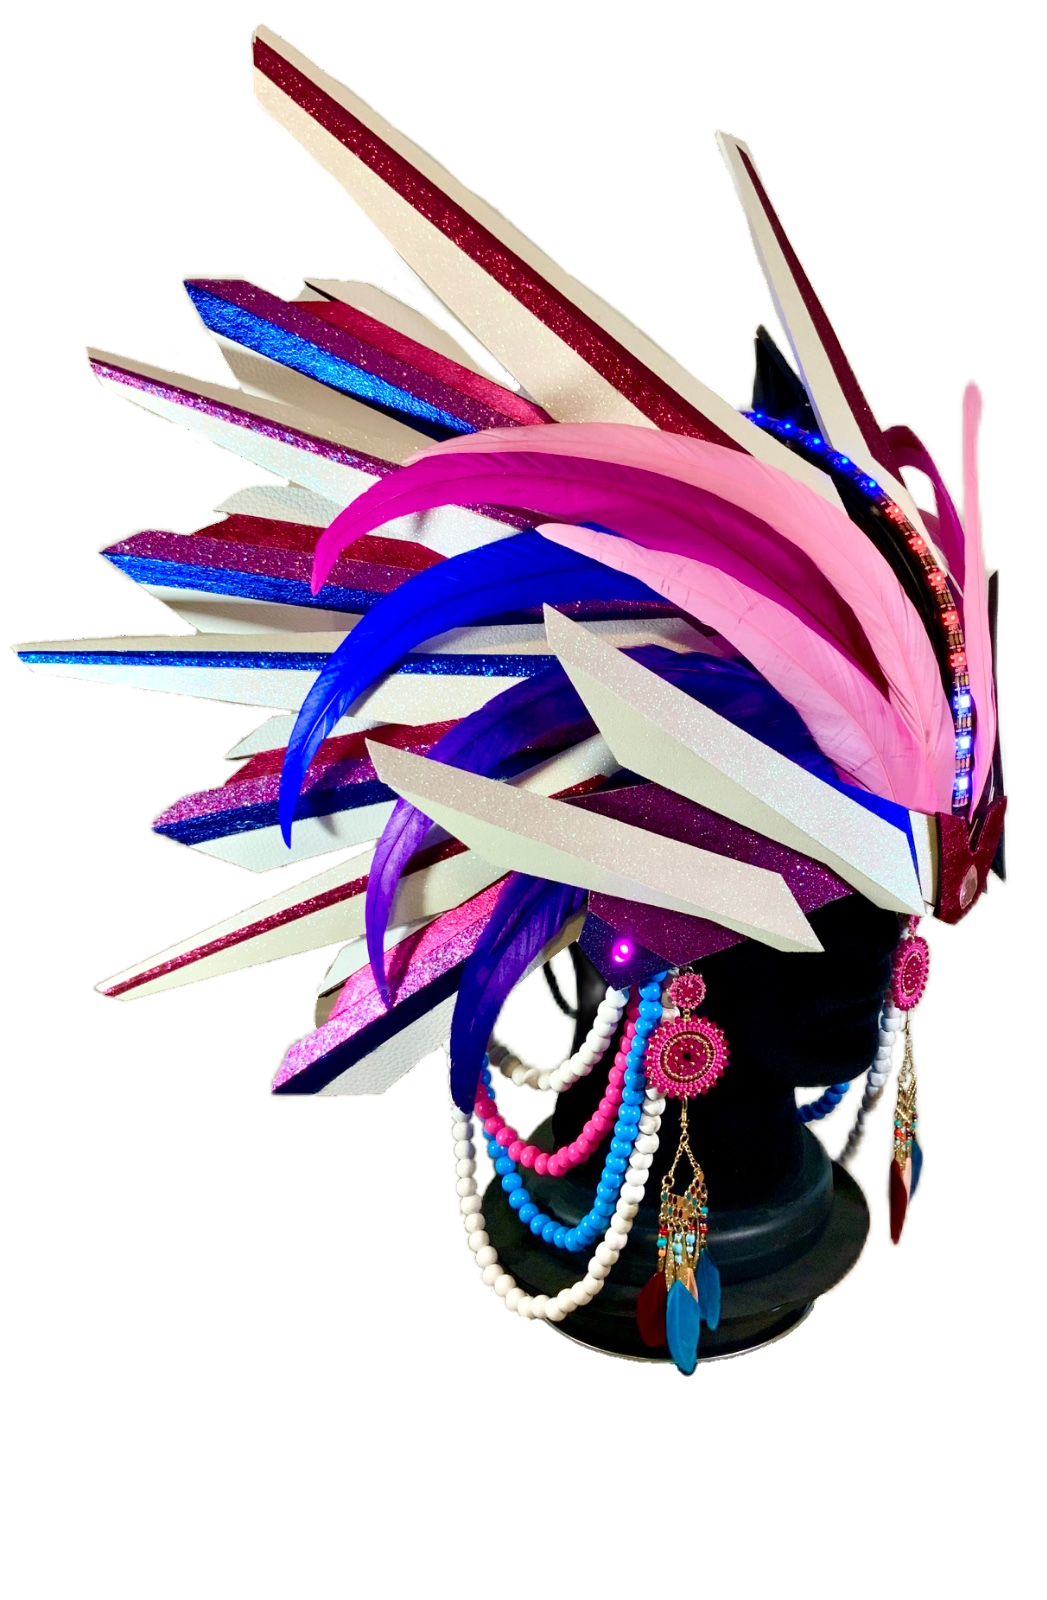
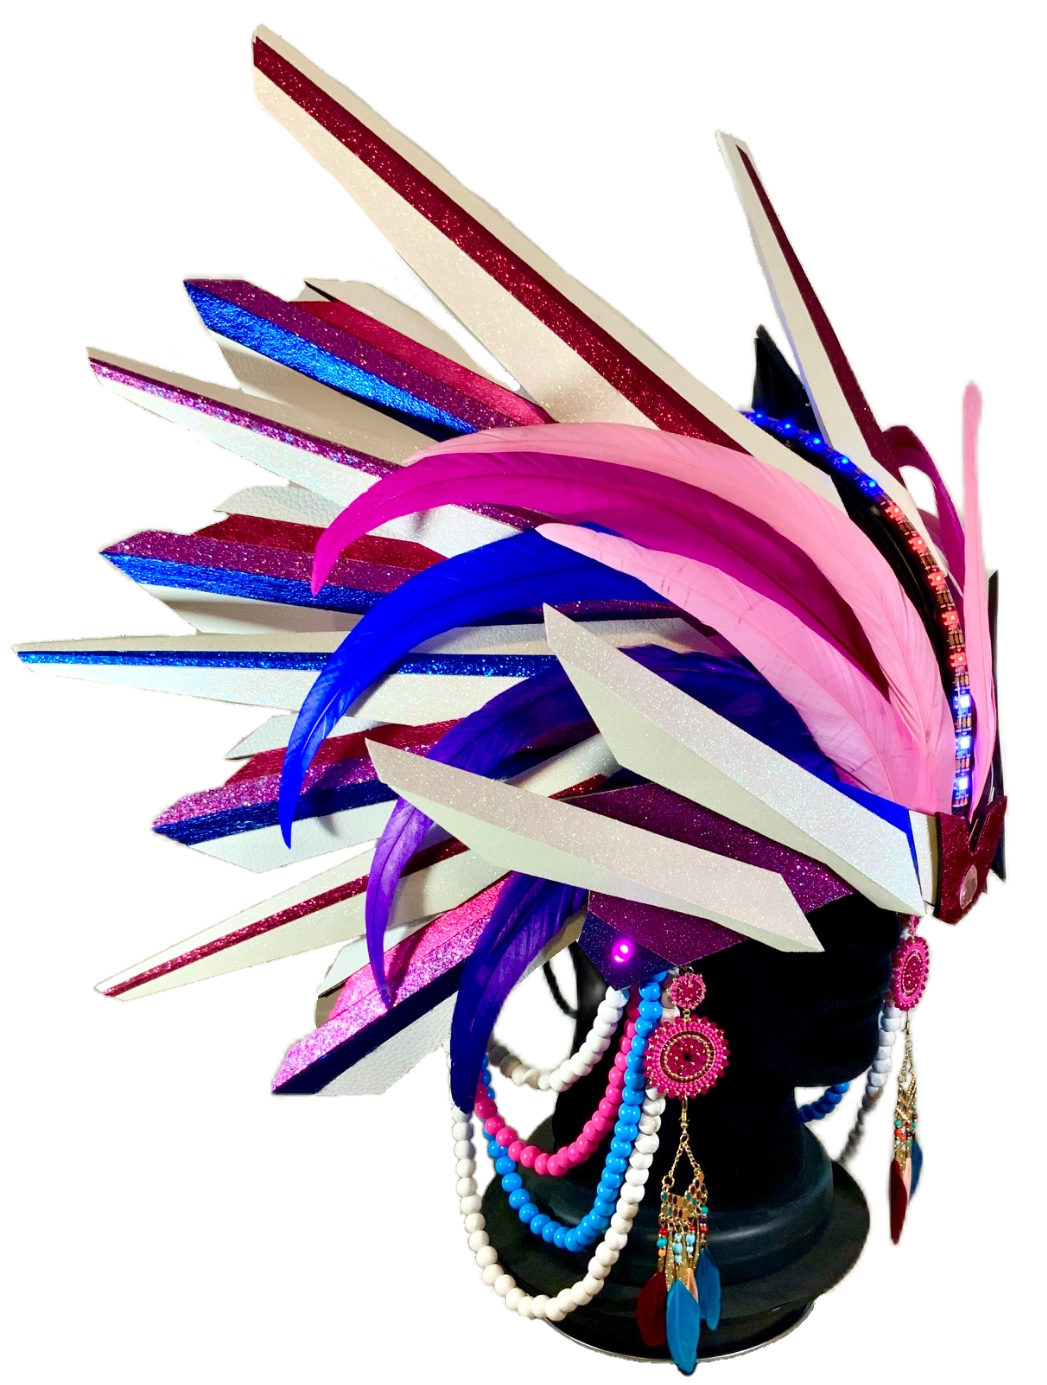
save

diff --git a/client/src/components/gallery/GalleryPageMainContainer.jsx b/client/src/components/gallery/GalleryPageMainContainer.jsx
@@ -4,58 +4,66 @@ import { headdressGalleryGroupsArray } from '../../utils/data/GalleryData';
 
 function GalleryPageMainContainer() {
   return (
-    <main role='main' className='grid w-full gap-y-24 lg:gap-y-44 px-6 md:px-12 py-8'>
-      {headdressGalleryGroupsArray.map(({ title, description, images }, index) => {
-        const [mainImage, ...restImages] = images;
+    <main
+      role='main'
+      className='grid w-full gap-y-24 lg:gap-y-44 px-6 md:px-12 py-8'
+    >
+      {headdressGalleryGroupsArray.map(
+        ({ title, description, images }, index) => {
+          const [mainImage, ...restImages] = images;
 
-        return (
-          <section key={index} className='grid gap-y-8 container mx-auto'>
-            {/* Title + Hero Section */}
-            <div className='grid md:grid-cols-2 gap-6 items-center'>
-              {/* Main Image */}
-              <div className='max-w-[25vw] w-full mx-auto'>
-                <img
-                  src={mainImage.src}
-                  alt={mainImage.name}
-                  className='w-full h-auto object-cover rounded-lg shadow-lg'
-                />
+          return (
+            <section key={index} className='grid gap-y-8 container mx-auto'>
+              {/* Title + Hero Section */}
+              <div className='grid md:grid-cols-reg gap-y-6 gap-x-12 items-center'>
+                {/* Main Image */}
+                <div className='lg:max-w-[25vw] w-full mx-auto'>
+                  <img
+                    src={mainImage.src}
+                    alt={mainImage.name}
+                    className='w-full h-auto object-cover lg:max-h-[60vh]'
+                  />
+                </div>
+
+                {/* Text Content */}
+                <article className='grid gap-y-8'>
+                  <h2 className='text-2xl lg:text-3xl font-bold uppercase'>{title}</h2>
+                  <p className='text-lg font-thin'>{description}</p>
+                </article>
               </div>
 
-              {/* Text Content */}
-              <article className='grid gap-y-4'>
-                <h2 className='text-2xl font-bold uppercase'>{title}</h2>
-                <p className='text-lg'>{description}</p>
-              </article>
-            </div>
+              {/* Gallery Grid */}
+              <ul className='grid grid-cols-1 sm:grid-cols-2 md:grid-cols-3 lg:grid-cols-4 gap-6 border-t-4 border-solid border-colour5 pt-6'>
+                {restImages.map(({ name, src }) => {
+                  const caption = name
+                    .replace(/IMG-\d{8}-WA/, 'View ')
+                    .replace(/-/g, ' ')
+                    .replace('.jpg', '');
 
-            {/* Gallery Grid */}
-            <ul className='grid grid-cols-1 sm:grid-cols-2 md:grid-cols-3 lg:grid-cols-4 gap-6'>
-              {restImages.map(({ name, src }) => {
-                const caption = name
-                  .replace(/IMG-\d{8}-WA/, 'View ')
-                  .replace(/-/g, ' ')
-                  .replace('.jpg', '');
-
-                return (
-                  <li key={name} className='aspect-[3/4] w-full overflow-hidden'>
-                    <figure className='relative w-full h-full group'>
-                      <img
-                        src={src}
-                        alt={caption}
-                        loading='lazy'
-                        className='absolute inset-0 w-full h-full object-cover transition-transform duration-500 ease-in-out group-hover:scale-110 group-focus:scale-110'
-                      />
-                      <figcaption className='absolute bottom-0 w-full bg-black bg-opacity-50 text-white text-sm py-1 text-center opacity-0 group-hover:opacity-100 transition-opacity duration-300'>
-                        {caption}
-                      </figcaption>
-                    </figure>
-                  </li>
-                );
-              })}
-            </ul>
-          </section>
-        );
-      })}
+                  return (
+                    <li
+                      key={name}
+                      className='aspect-[3/4] w-full overflow-hidden'
+                    >
+                      <figure className='relative w-full h-full group'>
+                        <img
+                          src={src}
+                          alt={caption}
+                          loading='lazy'
+                          className='absolute inset-0 w-full h-full object-cover transition-transform duration-500 ease-in-out group-hover:scale-110 group-focus:scale-110'
+                        />
+                        <figcaption className='absolute bottom-0 w-full bg-black bg-opacity-50 text-white text-sm py-1 text-center opacity-0 group-hover:opacity-100 transition-opacity duration-300'>
+                          {caption}
+                        </figcaption>
+                      </figure>
+                    </li>
+                  );
+                })}
+              </ul>
+            </section>
+          );
+        }
+      )}
     </main>
   );
 }

diff --git a/client/src/utils/data/GalleryData.jsx b/client/src/utils/data/GalleryData.jsx
@@ -64,6 +64,7 @@ import IMG_20250608_WA0071 from '../../assets/images/headdress/IMG-20250608-WA00
 import IMG_20250608_WA0072 from '../../assets/images/headdress/IMG-20250608-WA0072.jpg';
 import IMG_20250608_WA0073 from '../../assets/images/headdress/IMG-20250608-WA0073.jpg';
 import IMG_20250608_WA0074 from '../../assets/images/headdress/IMG-20250608-WA0074.jpg';
+import ProductBlue from '../../assets/images/products/phoenix-headdress-product-no-background-pink-blue-3.png';
 
 export const headdressGalleryGroupsArray = [
   {
@@ -71,7 +72,7 @@ export const headdressGalleryGroupsArray = [
     description:
       'Inspired by cosmic flame and divine energy, this piece erupts with pinks, whites, and royal blues. A radiant tribute to rebirth and bold femininity.',
     images: [
-      { name: 'IMG-20250608-WA0000', src: IMG_20250608_WA0000 },
+      { name: 'IMG-20250608-WA0000', src: ProductBlue },
       { name: 'IMG-20250608-WA0001', src: IMG_20250608_WA0001 },
       { name: 'IMG-20250608-WA0002', src: IMG_20250608_WA0002 },
       { name: 'IMG-20250608-WA0003', src: IMG_20250608_WA0003 },
